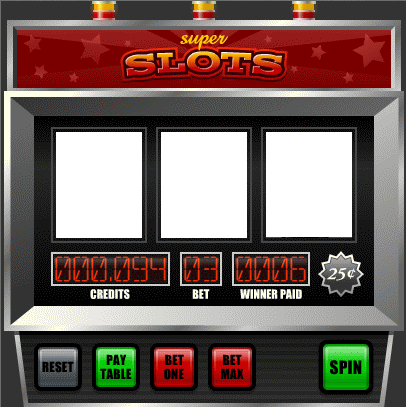
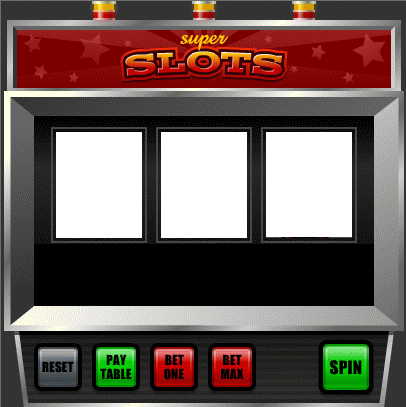
add credits, bet and winning display to machine. also add functionality to bet buttons

Changed region(s): [[0.1182, 0.6192, 0.9163, 0.7371]]

diff --git a/slotmachine/js/slotmachine.js b/slotmachine/js/slotmachine.js
@@ -11,6 +11,17 @@ var REEL1 = { X: 56, Y: 132 };
 var REEL2 = { X: 161, Y: 132 };
 var REEL3 = { X: 266, Y: 132 };
 
+//text locations
+var MONEY = { X: 40, Y: 250 };
+var BET = { X: 175, Y: 250 };
+var PAID = { X: 250, Y: 250 };
+var HEADLINE = { X: 60, Y: 280 };
+
+//text items
+var money;
+var bet;
+var paid;
+
 //image locations on spritesheet
 var SEVEN = { X: 0, Y: 0 };
 var BLANK = { X: 95, Y: 0 };
@@ -67,12 +78,17 @@ function init() {
 function handleTick(e) {
     //update method
     updateReels();
+
+    updateMoney();
+    updateBet();
+    updatePaid();
     stage.update();
 }
 
 function start() {
     initSlotmachine();
     initReels();
+    initMoney();
 
     initSpinButton();
     initResetButton();
@@ -101,6 +117,26 @@ function initReels() {
     reel3Result.x = REEL3.X;
     reel3Result.y = REEL3.Y;
     stage.addChild(reel1Result, reel2Result, reel3Result);
+}
+
+function initMoney() {
+    money = new createjs.Text('00000000', 'bold 25px Courier New', '#ff7700');
+    money.x = MONEY.X;
+    money.y = MONEY.Y;
+
+    paid = new createjs.Text('00000000', 'bold 25px Courier New', '#ff7700');
+    paid.x = PAID.X;
+    paid.y = PAID.Y;
+
+    headline = new createjs.Text('Credits    Bet   Winnings', 'bold 20px Courier New', '#ffffff');
+    headline.x = HEADLINE.X;
+    headline.y = HEADLINE.Y;
+
+    bet = new createjs.Text('0000', 'bold 25px Courier New', '#ff7700');
+    bet.x = BET.X;
+    bet.y = BET.Y;
+
+    stage.addChild(money, bet, paid, headline);
 }
 
 function initSpinButton() {
@@ -150,7 +186,9 @@ function initBetMinusButton() {
     betMinusButton.y = BET_MINUS.Y;
     betMinusButton.addEventListener("click", handleClickBetMinus);
     function handleClickBetMinus(event) {
-        console.log('betMinus');
+        if (playerBet > MIN_BET) {
+            playerBet -= MIN_BET;
+        }
     }
 
     stage.addChild(betMinusButton);
@@ -163,7 +201,9 @@ function initBetAddButton() {
     betAddButton.y = BET_ADD.Y;
     betAddButton.addEventListener("click", handleClickBetAdd);
     function handleClickBetAdd(event) {
-        console.log('betAdd');
+        if (playerBet < MAX_BET) {
+            playerBet += MIN_BET;
+        }
     }
 
     stage.addChild(betAddButton);
@@ -186,8 +226,55 @@ var bars = 0;
 var lemons = 0;
 var sevens = 0;
 var blanks = 0;
+
+var MAX_MONEY_STRING_LENGTH = 8;
+var MAX_PAID_STRING_LENGTH = 8;
+var MAX_BET_STRING_LENGTH = 4;
+
+var MAX_BET = 1000;
+var MIN_BET = 10;
+var BET_INCREMENT = 10;
+
+var playerMoney = 1000;
+var winnings = 0;
+var jackpot = 5000;
+var playerBet = MIN_BET;
+
+function updateMoney() {
+    moneyStr = '';
+    for (var i = 0; i < MAX_MONEY_STRING_LENGTH - playerMoney.toString().length; i++) {
+        moneyStr += '0';
+    }
+    money.text = moneyStr + playerMoney.toString();
+}
+
+function updateBet() {
+    betStr = '';
+    for (var i = 0; i < MAX_BET_STRING_LENGTH - playerBet.toString().length; i++) {
+        betStr += '0';
+    }
+    bet.text = betStr + playerBet.toString();
+}
+
+function updatePaid() {
+    paidStr = '';
+    for (var i = 0; i < MAX_PAID_STRING_LENGTH - winnings.toString().length; i++) {
+        paidStr += '0';
+    }
+    paid.text = paidStr + winnings.toString();
+}
+
 /* When this function is called it determines the betLine results. */
 //e.g. Bar - Orange - Banana
+function betString() {
+    moneyStr = '';
+    for (var i = 0; i < MAX_MONEY_STRING_LENGTH - playerMoney.toString().length; i++) {
+        moneyStr += '0';
+    }
+    moneyStr += playerMoney;
+
+    return moneyStr;
+}
 
 
 function spinReels() {
